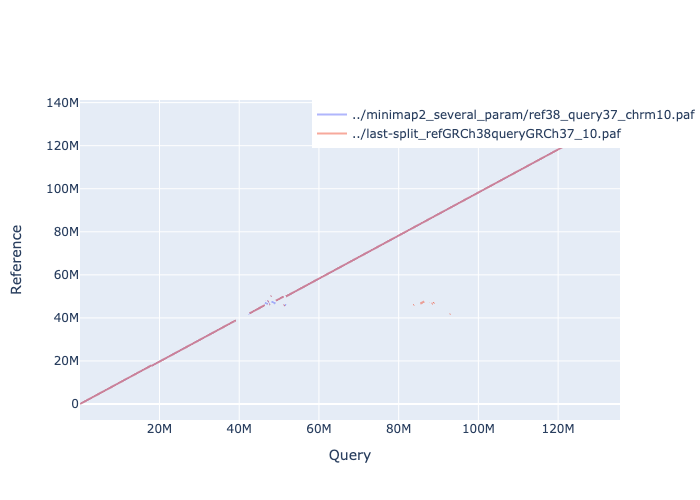
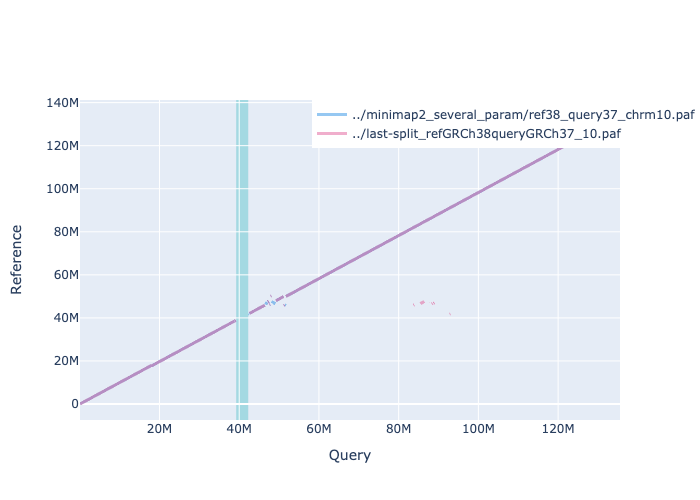
WIP

diff --git a/dotplot.py b/dotplot.py
@@ -52,12 +52,12 @@ def minimap2_paf_parser(filename:str, dsc = None):
 	return paf
 
 
-def draw_dotplot(PAFs):
+def draw_dotplot(PAFs, query_centromere_breakpoint = None, reference_centromere_breakpoint = None):
 	retObj = go.Figure()
 	counter = 0
 	# # 63 6E FA -> rgba(99, 110, 250, 0.7)
 	colorList = []
-	for each_color in px.colors.qualitative.Plotly:
+	for each_color in px.colors.qualitative.Dark24:
 		r_str = each_color[1:3]
 		g_str = each_color[3:5]
 		b_str = each_color[5:7]
@@ -84,24 +84,31 @@ def draw_dotplot(PAFs):
 				y_points.append(one_alignment.ref_start)
 				y_points.append(one_alignment.ref_end)
 				y_points.append(None)
-		retObj.add_trace(go.Scattergl(x = x_points, y = y_points, line=dict(width=2, color=colorList[counter]), mode='lines', name = paf[0].dsc)) #, color=one_alignment.color
+		retObj.add_trace(go.Scattergl(x = x_points, y = y_points, line=dict(width=3, color=colorList[counter]), mode='lines', name = paf[0].dsc)) #, color=one_alignment.color
+		if query_centromere_breakpoint:
+			retObj.add_vrect(x0 = query_centromere_breakpoint[0], x1 = query_centromere_breakpoint[1], fillcolor = px.colors.qualitative.Pastel[0], opacity = 0.3, layer = "below", line_width=0)
+		if reference_centromere_breakpoint:
+			retObj.add_vrect(y0 = reference_centromere_breakpoint[0], y1 = reference_centromere_breakpoint[1], fillcolor = px.colors.qualitative.Pastel[1], opacity = 0.3, layer = "below", line_width=0)
 		counter += 1
-	retObj.update_xaxes(title_text='Query')
-	retObj.update_yaxes(title_text='Reference')
+	retObj.update_xaxes(title_text='Query', rangemode = 'tozero')
+	retObj.update_yaxes(title_text='Reference', rangemode = 'tozero')
 	return retObj
 
 def main():
 	parser = argparse.ArgumentParser(description='Describe dot plot of alignments in PAF files. Alignments are grouped by PAF file name. This script will show dot plot on your browser and save a picture to the file which you specify.')
 	parser.add_argument("Outputfilename", metavar='FileName', type=str, help='image file name.File name must be like fizz.png or fizz.svn. Please refer to https://plotly.com/python/static-image-export/')
 	parser.add_argument("PAFfilename", metavar='PAF', type=str, nargs='+', help='PAF file(s)')
+	parser.add_argument("--qc", metavar='Query centromere', type=str, nargs=2, help='query centromere coordinates')
 	args = parser.parse_args()
 	paf_file_names = args.PAFfilename
 	out_file_name = args.Outputfilename
+	query_centromere_breakpoint = args.qc
 	paf_instance_array = []
 	for each_filename in paf_file_names:
 		tmp_paf_instance = minimap2_paf_parser(each_filename, dsc = each_filename)
 		paf_instance_array.append(tmp_paf_instance)
-	fig = draw_dotplot(paf_instance_array)
+
+	fig = draw_dotplot(paf_instance_array, query_centromere_breakpoint = query_centromere_breakpoint, reference_centromere_breakpoint = None)
 	fig.show()
 	fig.write_image(out_file_name)
 

diff --git a/README.md b/README.md
@@ -1,7 +1,7 @@
 # `dotplot.py`
 `dotplot.py` shows alignments saved as [PAF](https://github.com/lh3/miniasm/blob/master/PAF.md) format.
 ## usage
-`dotplot.py ImageFileName.png/pdf/svn alignment1.paf alignment2.paf ...`
+`dotplot.py ImageFileName.png/pdf/svn alignment1.paf alignment2.paf ... -qc query_centromere_start_coordinate, query_centromere_end_coordinate`
 ## requirements
 ```
 csv
@@ -11,6 +11,7 @@ argparse
 ## results
 ![image](./example.png)
 
+You had better to view this result on your browser, not image file.
 # `maf2paf.py`
 `maf2paf.py` converts [MAF](http://last.cbrc.jp/doc/last-tutorial.html) format to [PAF](https://github.com/lh3/miniasm/blob/master/PAF.md) format.
 
